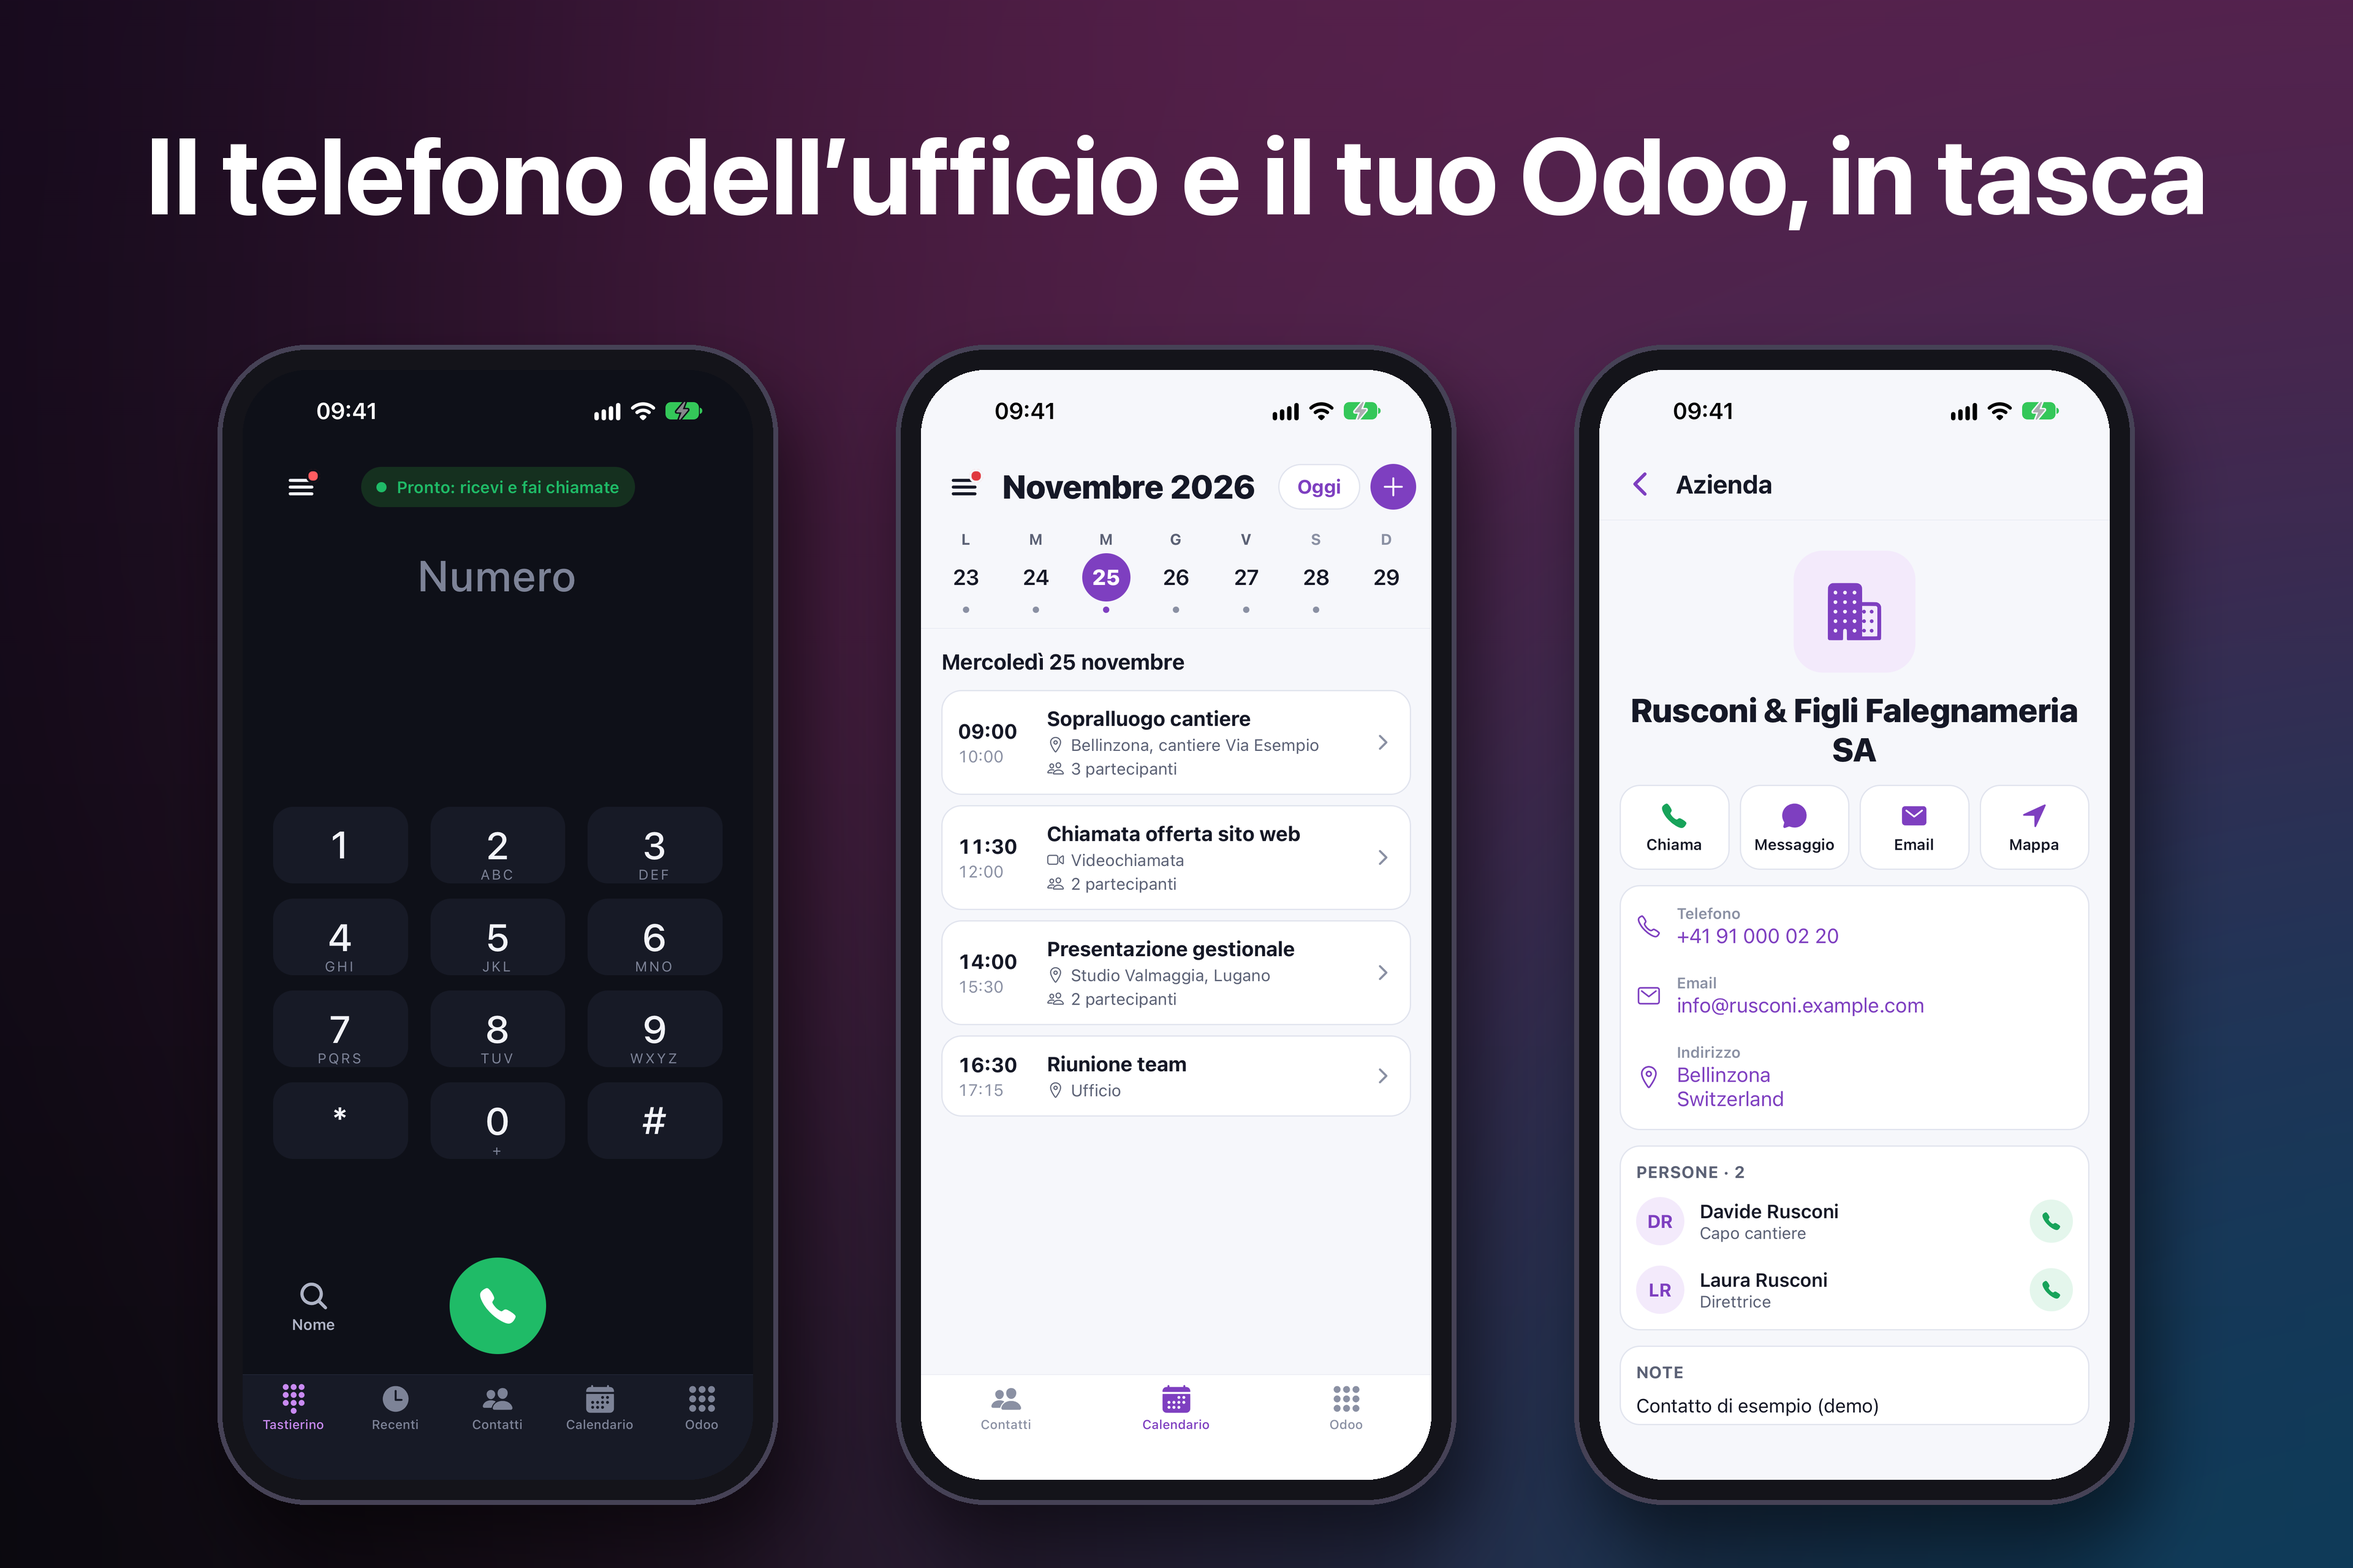
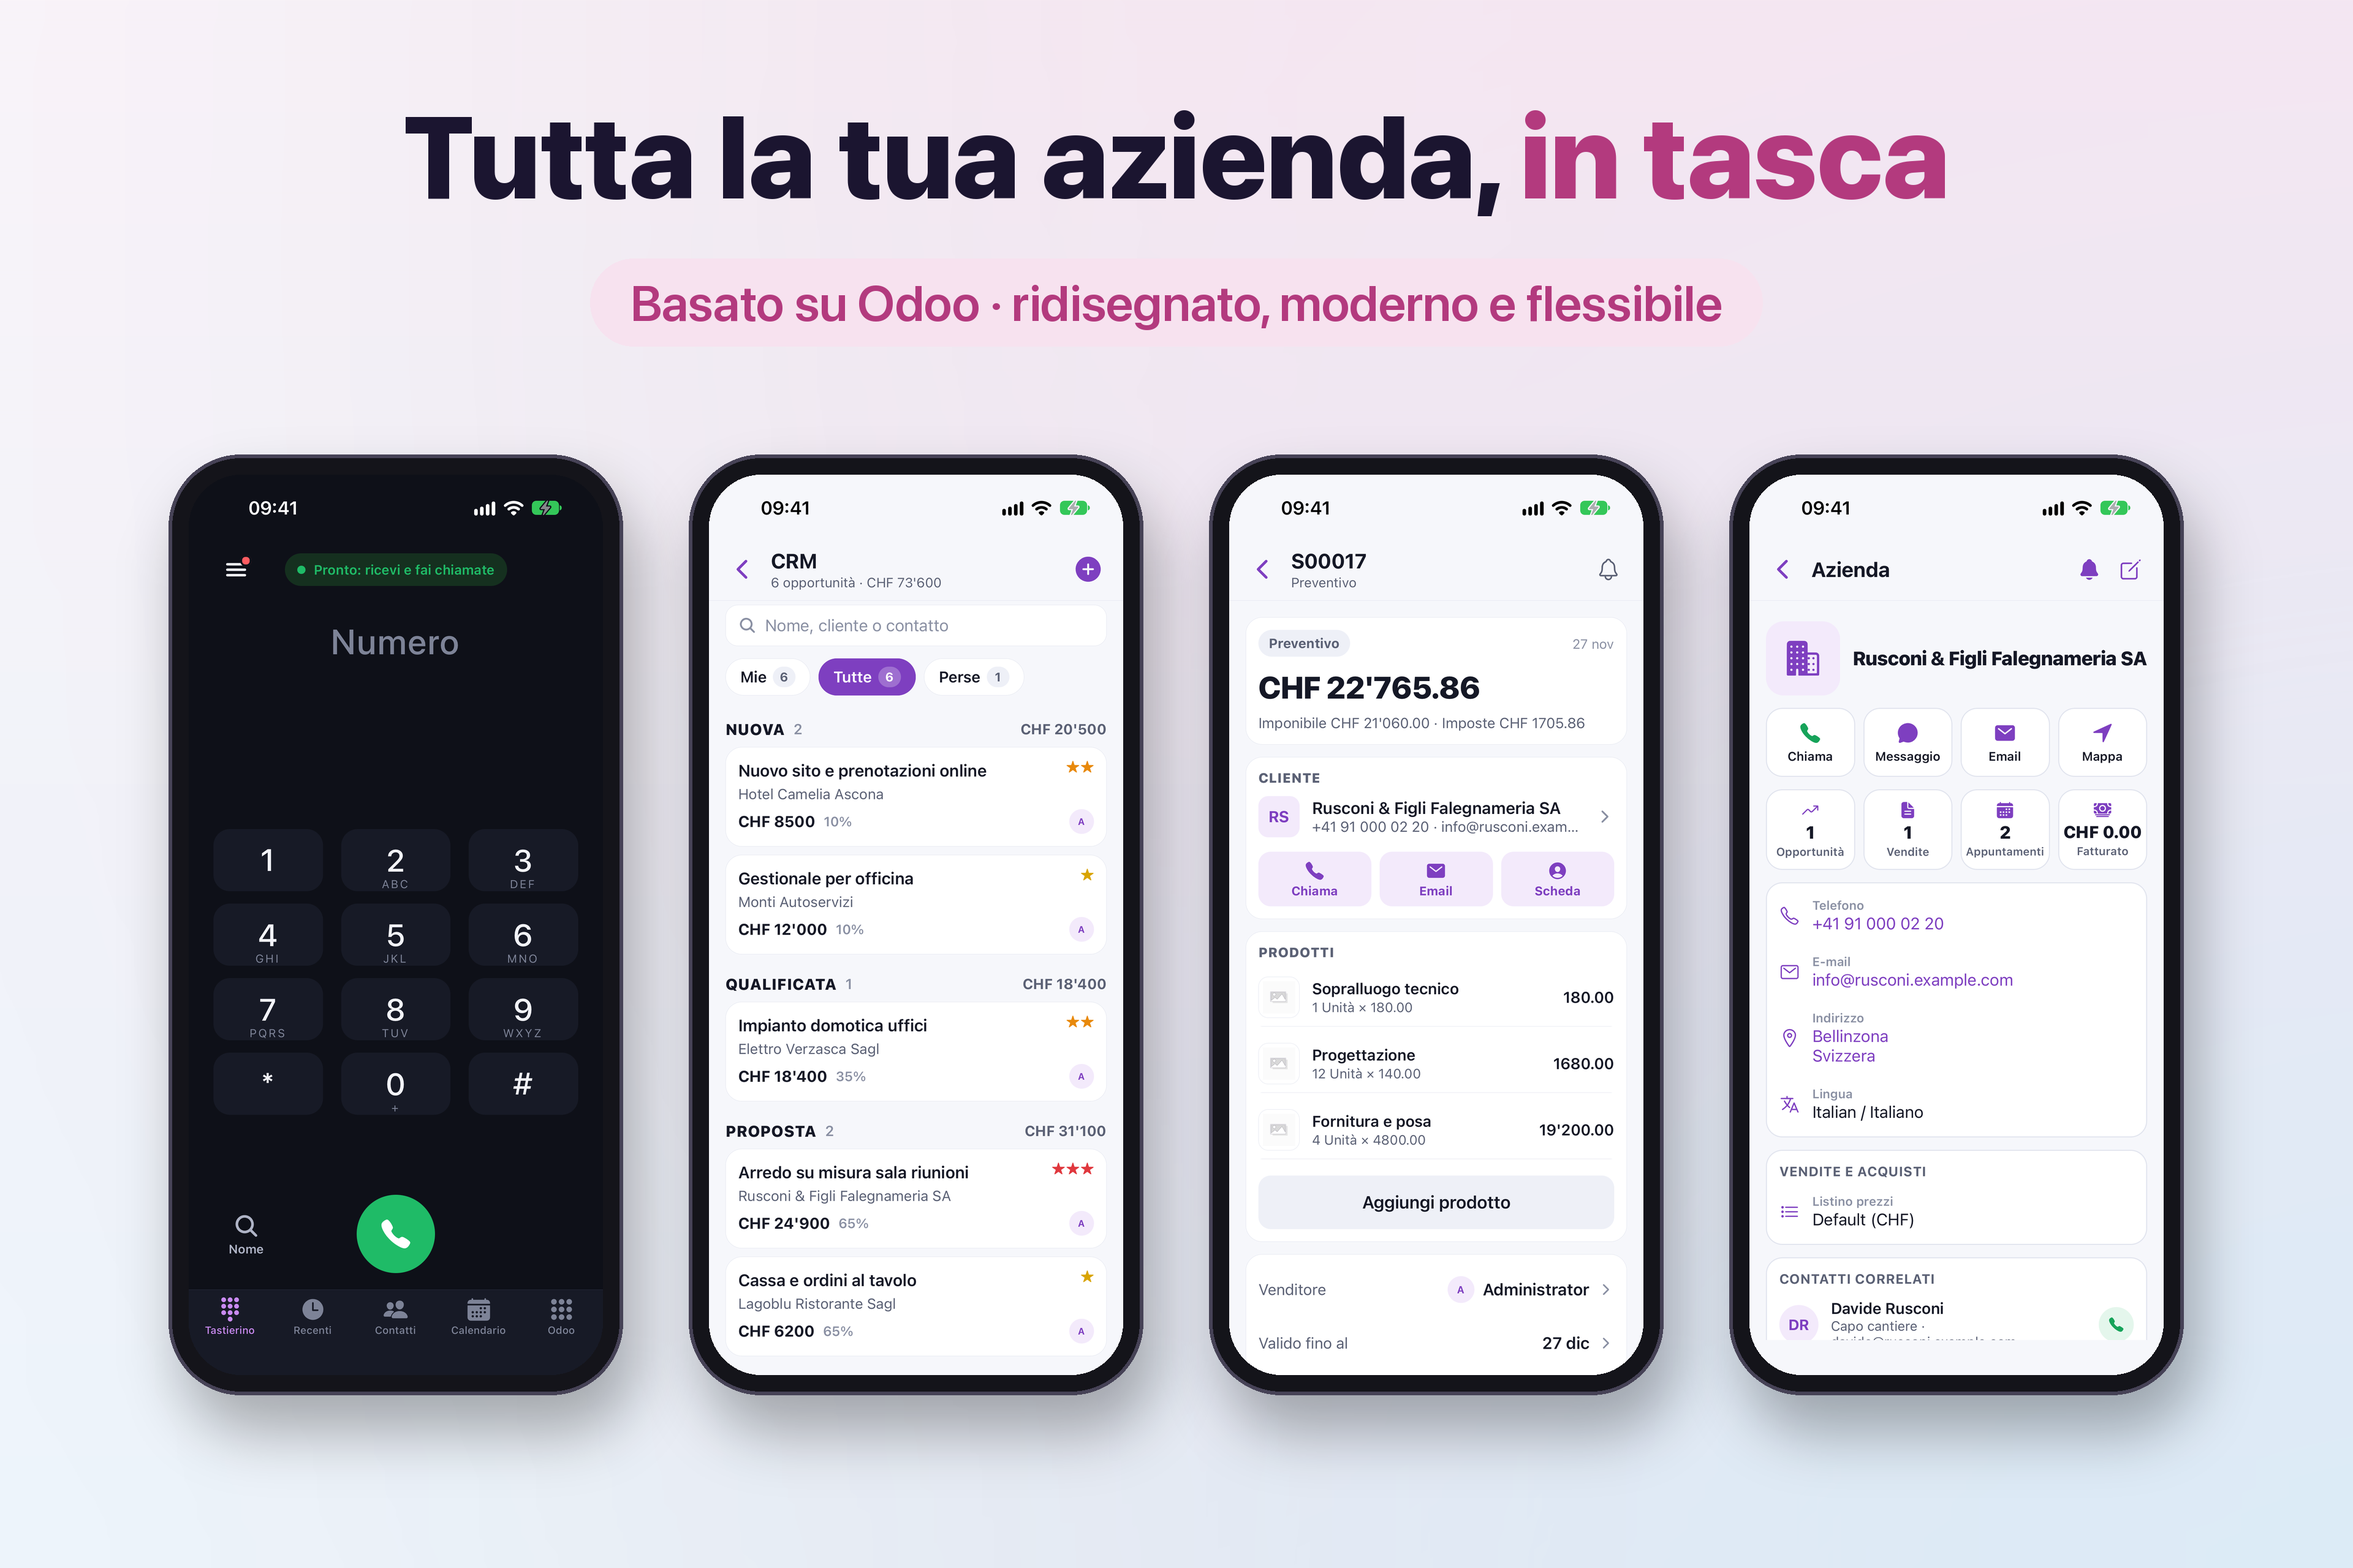
feat(GestaVOIP): light App Store artwork, «Tutta la tua azienda, in tasca»
Header and search-results images on a light background: the whole
business in your pocket, based on Odoo but redesigned. New demo
screenshots of CRM, quotation and company card.

diff --git a/GestaVOIP/store/genera-intestazione.py b/GestaVOIP/store/genera-intestazione.py
@@ -3,7 +3,7 @@
 Immagini per App Store Connect → pagina prodotto:
 - «Intestazione» (header) 3840×1646, 21:9
 - «Risultati della ricerca» 3840×2560, 3:2
-PNG senza trasparenza, dagli screenshot in store/screenshots/raw e dal logo G.
+PNG senza trasparenza, dagli screenshot in store/screenshots/raw e dal logo G. Fondo chiaro; messaggio: tutta l'azienda in tasca, basato su Odoo ma ridisegnato.
 
 Uso: python3 store/genera-intestazione.py   (scrive in store/app-store/)
 """
@@ -16,13 +16,14 @@ RADICE = os.path.dirname(QUI)
 USCITA = os.path.join(QUI, 'app-store')
 SF = '/System/Library/Fonts/SFNS.ttf'
 
-FONDO_ALTO = (24, 14, 40)
-FONDO_BASSO = (12, 14, 22)
+FONDO_ALTO = (252, 247, 252)
+FONDO_BASSO = (238, 245, 252)
 MAGENTA = (179, 58, 126)
 BLU = (15, 122, 182)
 VIOLA = (131, 70, 194)
-TESTO = (255, 255, 255)
-TESTO2 = (214, 210, 230)
+TESTO = (27, 21, 48)
+TESTO2 = (88, 82, 110)
+PILLOLA = (247, 226, 239)
 
 
 def font(peso, dim):
@@ -44,8 +45,9 @@ def fondo(l, a):
     da.ellipse([int(l * 0.70) - r, int(a * 0.35) - r, int(l * 0.70) + r, int(a * 0.35) + r], fill=MAGENTA)
     r2 = int(a * 0.55)
     da.ellipse([int(l * 0.92) - r2, int(a * 0.95) - r2, int(l * 0.92) + r2, int(a * 0.95) + r2], fill=BLU)
-    alone = alone.filter(ImageFilter.GaussianBlur(a * 0.28))
-    return Image.blend(img, Image.composite(alone, img, Image.new('L', (l, a), 255)), 0.42)
+    alone = alone.filter(ImageFilter.GaussianBlur(a * 0.30))
+    maschera = alone.convert('L').point(lambda v: int(v * 0.22))
+    return Image.composite(alone, img, maschera)
 
 
 def telefono(nome, altezza):
@@ -70,7 +72,7 @@ def incolla_con_ombra(base, el, x, y, angolo=0):
     if angolo:
         el = el.rotate(angolo, resample=Image.BICUBIC, expand=True)
     ombra = Image.new('RGBA', base.size, (0, 0, 0, 0))
-    alfa = el.split()[3].point(lambda v: int(v * 0.55))
+    alfa = el.split()[3].point(lambda v: int(v * 0.30))
     nero = Image.new('RGBA', el.size, (0, 0, 0, 255))
     nero.putalpha(alfa)
     ombra.alpha_composite(nero, (x + int(el.width * 0.03), y + int(el.height * 0.04)))
@@ -88,30 +90,36 @@ def scrivi(d, xy, testo, f, colore):
     d.text(xy, testo, font=f, fill=colore)
 
 
+def pillola(img, d, x, y, testo, f):
+    w = d.textlength(testo, font=f)
+    alto = int(f.size * 1.75)
+    d.rounded_rectangle([x, y, x + w + f.size * 1.6, y + alto], alto // 2, fill=PILLOLA)
+    d.text((x + f.size * 0.8, y + alto / 2), testo, font=f, fill=MAGENTA, anchor='lm')
+    return alto
+
+
 def intestazione():
     L, A = 3840, 1646
     img = fondo(L, A).convert('RGBA')
     # Telefoni a destra (dentro l'80 % centrale, per i tagli dei vari schermi).
+    # Due telefoni a destra, lontani dal testo.
     h = int(A * 0.92)
-    t1 = telefono('1-tastierino.png', int(h * 0.88))
-    t2 = telefono('2-calendario.png', h)
-    t3 = telefono('4-scheda-contatto.png', int(h * 0.88))
-    cx = int(L * 0.66)
-    incolla_con_ombra(img, t1, cx - int(t2.width * 1.05), int(A * 0.14), angolo=6)
-    incolla_con_ombra(img, t3, cx + int(t2.width * 0.62), int(A * 0.14), angolo=-6)
-    incolla_con_ombra(img, t2, cx - t2.width // 2 + int(t2.width * 0.2), int(A * 0.06))
+    t2 = telefono('6-crm.png', h)
+    t3 = telefono('7-preventivo.png', int(h * 0.88))
+    x2 = int(L * 0.60)
+    incolla_con_ombra(img, t3, x2 + int(t2.width * 0.78), int(A * 0.13), angolo=-5)
+    incolla_con_ombra(img, t2, x2, int(A * 0.05))
     # Testo a sinistra.
     d = ImageDraw.Draw(img)
-    x = int(L * 0.115)
-    g = logo(230)
-    img.alpha_composite(g, (x, int(A * 0.20)))
-    scrivi(d, (x + 280, int(A * 0.20) + 18), 'GestABLE', font('Heavy', 190), TESTO)
-    titolo = font('Bold', 150)
-    scrivi(d, (x, int(A * 0.43)), 'Il telefono dell’ufficio', titolo, TESTO)
-    scrivi(d, (x, int(A * 0.43) + 180), 'e il tuo Odoo, in tasca', titolo, TESTO)
-    sotto = font('Medium', 84)
-    d.rounded_rectangle([x, int(A * 0.70), x + 170, int(A * 0.70) + 16], 8, fill=MAGENTA)
-    scrivi(d, (x, int(A * 0.74)), 'Chiamate, contatti, calendario, CRM e vendite', sotto, TESTO2)
+    x = int(L * 0.10)
+    g = logo(200)
+    img.alpha_composite(g, (x, int(A * 0.15)))
+    scrivi(d, (x + 245, int(A * 0.15) + 14), 'GestABLE', font('Heavy', 165), TESTO)
+    titolo = font('Heavy', 160)
+    scrivi(d, (x, int(A * 0.36)), 'Tutta la tua azienda,', titolo, TESTO)
+    scrivi(d, (x, int(A * 0.36) + 200), 'in tasca', titolo, MAGENTA)
+    scrivi(d, (x, int(A * 0.64)), 'Chiamate, CRM, vendite, calendario, ferie e chat', font('Medium', 74), TESTO2)
+    pillola(img, d, x, int(A * 0.75), 'Basato su Odoo · ridisegnato, moderno e flessibile', font('Semibold', 70))
     return img.convert('RGB')
 
 
@@ -119,20 +127,25 @@ def ricerca():
     L, A = 3840, 2560
     img = fondo(L, A).convert('RGBA')
     d = ImageDraw.Draw(img)
-    # Titolo in alto al centro.
-    titolo = font('Bold', 176)
-    riga = 'Il telefono dell’ufficio e il tuo Odoo, in tasca'
-    w = d.textlength(riga, font=titolo)
-    scrivi(d, ((L - w) / 2, int(A * 0.07)), riga, titolo, TESTO)
-    # Tre telefoni affiancati, dritti, leggibili anche in piccolo.
-    h = int(A * 0.74)
-    nomi = ['1-tastierino.png', '2-calendario.png', '4-scheda-contatto.png']
+    titolo = font('Heavy', 190)
+    a, b = 'Tutta la tua azienda, ', 'in tasca'
+    wa, wb = d.textlength(a, font=titolo), d.textlength(b, font=titolo)
+    x0 = (L - wa - wb) / 2
+    scrivi(d, (x0, int(A * 0.055)), a, titolo, TESTO)
+    scrivi(d, (x0 + wa, int(A * 0.055)), b, titolo, MAGENTA)
+    f = font('Semibold', 82)
+    testo = 'Basato su Odoo · ridisegnato, moderno e flessibile'
+    w = d.textlength(testo, font=f) + f.size * 1.6
+    pillola(img, d, int((L - w) / 2), int(A * 0.165), testo, f)
+    # Quattro telefoni affiancati, dritti, leggibili anche in piccolo.
+    h = int(A * 0.60)
+    nomi = ['1-tastierino.png', '6-crm.png', '7-preventivo.png', '8-scheda-azienda.png']
     tel = [telefono(n, h) for n in nomi]
-    spazio = int(L * 0.05)
-    tot = sum(t.width for t in tel) + spazio * 2
+    spazio = int(L * 0.028)
+    tot = sum(t.width for t in tel) + spazio * (len(tel) - 1)
     x = (L - tot) // 2
     for t in tel:
-        incolla_con_ombra(img, t, x, int(A * 0.22))
+        incolla_con_ombra(img, t, x, int(A * 0.29))
         x += t.width + spazio
     return img.convert('RGB')
 
